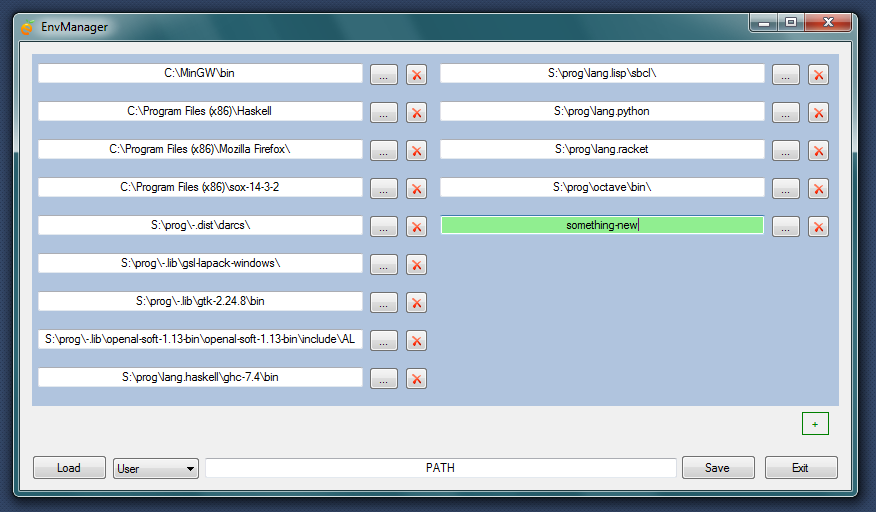
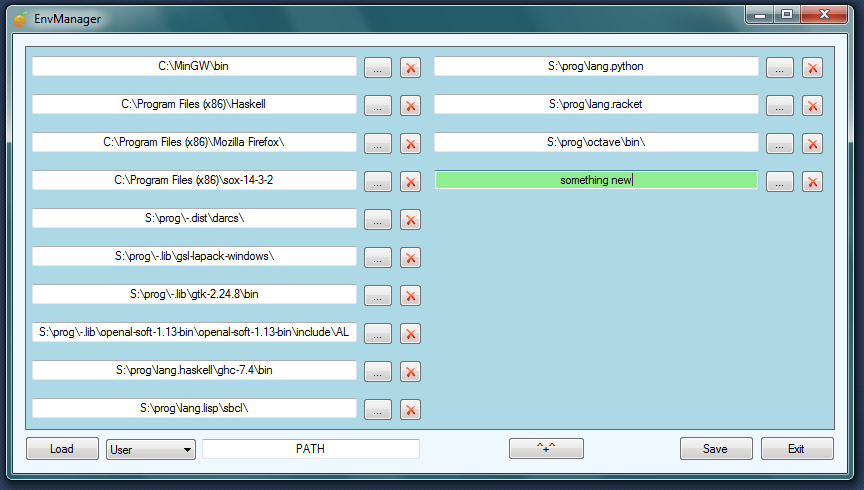
Learning git...

diff --git a/EnvManager/UI/MainForm.Designer.cs b/EnvManager/UI/MainForm.Designer.cs
@@ -43,7 +43,7 @@
             // saveB
             // 
             this.saveB.Anchor = ((System.Windows.Forms.AnchorStyles)((System.Windows.Forms.AnchorStyles.Bottom | System.Windows.Forms.AnchorStyles.Right)));
-            this.saveB.Location = new System.Drawing.Point(566, 413);
+            this.saveB.Location = new System.Drawing.Point(568, 402);
             this.saveB.Name = "saveB";
             this.saveB.Size = new System.Drawing.Size(75, 25);
             this.saveB.TabIndex = 0;
@@ -54,7 +54,7 @@
             // exitB
             // 
             this.exitB.Anchor = ((System.Windows.Forms.AnchorStyles)((System.Windows.Forms.AnchorStyles.Bottom | System.Windows.Forms.AnchorStyles.Right)));
-            this.exitB.Location = new System.Drawing.Point(649, 413);
+            this.exitB.Location = new System.Drawing.Point(649, 402);
             this.exitB.Name = "exitB";
             this.exitB.Size = new System.Drawing.Size(75, 25);
             this.exitB.TabIndex = 1;
@@ -67,17 +67,18 @@
             this.entriesFLP.Anchor = ((System.Windows.Forms.AnchorStyles)((((System.Windows.Forms.AnchorStyles.Top | System.Windows.Forms.AnchorStyles.Bottom) 
             | System.Windows.Forms.AnchorStyles.Left) 
             | System.Windows.Forms.AnchorStyles.Right)));
-            this.entriesFLP.BackColor = System.Drawing.Color.LightSteelBlue;
+            this.entriesFLP.BackColor = System.Drawing.Color.LightBlue;
+            this.entriesFLP.BorderStyle = System.Windows.Forms.BorderStyle.FixedSingle;
             this.entriesFLP.FlowDirection = System.Windows.Forms.FlowDirection.TopDown;
             this.entriesFLP.Location = new System.Drawing.Point(12, 12);
             this.entriesFLP.Name = "entriesFLP";
-            this.entriesFLP.Size = new System.Drawing.Size(712, 352);
+            this.entriesFLP.Size = new System.Drawing.Size(712, 384);
             this.entriesFLP.TabIndex = 2;
             // 
             // loadB
             // 
             this.loadB.Anchor = ((System.Windows.Forms.AnchorStyles)((System.Windows.Forms.AnchorStyles.Bottom | System.Windows.Forms.AnchorStyles.Left)));
-            this.loadB.Location = new System.Drawing.Point(12, 413);
+            this.loadB.Location = new System.Drawing.Point(12, 402);
             this.loadB.Name = "loadB";
             this.loadB.Size = new System.Drawing.Size(75, 25);
             this.loadB.TabIndex = 3;
@@ -89,9 +90,9 @@
             // 
             this.varNameTB.Anchor = ((System.Windows.Forms.AnchorStyles)(((System.Windows.Forms.AnchorStyles.Bottom | System.Windows.Forms.AnchorStyles.Left) 
             | System.Windows.Forms.AnchorStyles.Right)));
-            this.varNameTB.Location = new System.Drawing.Point(185, 416);
+            this.varNameTB.Location = new System.Drawing.Point(189, 405);
             this.varNameTB.Name = "varNameTB";
-            this.varNameTB.Size = new System.Drawing.Size(377, 20);
+            this.varNameTB.Size = new System.Drawing.Size(120, 20);
             this.varNameTB.TabIndex = 4;
             this.varNameTB.Text = "PATH";
             this.varNameTB.TextAlign = System.Windows.Forms.HorizontalAlignment.Center;
@@ -99,13 +100,11 @@
             // addB
             // 
             this.addB.Anchor = ((System.Windows.Forms.AnchorStyles)((System.Windows.Forms.AnchorStyles.Bottom | System.Windows.Forms.AnchorStyles.Right)));
-            this.addB.FlatStyle = System.Windows.Forms.FlatStyle.Flat;
-            this.addB.ForeColor = System.Drawing.Color.Green;
-            this.addB.Location = new System.Drawing.Point(687, 370);
+            this.addB.Location = new System.Drawing.Point(397, 403);
             this.addB.Name = "addB";
-            this.addB.Size = new System.Drawing.Size(27, 23);
+            this.addB.Size = new System.Drawing.Size(77, 23);
             this.addB.TabIndex = 5;
-            this.addB.Text = "+";
+            this.addB.Text = "^+^";
             this.addB.UseVisualStyleBackColor = true;
             this.addB.Click += new System.EventHandler(this.addB_Click);
             // 
@@ -124,16 +123,17 @@
             this.varTargetCB.Items.AddRange(new object[] {
             "Machine",
             "User"});
-            this.varTargetCB.Location = new System.Drawing.Point(93, 416);
+            this.varTargetCB.Location = new System.Drawing.Point(93, 405);
             this.varTargetCB.Name = "varTargetCB";
-            this.varTargetCB.Size = new System.Drawing.Size(86, 21);
+            this.varTargetCB.Size = new System.Drawing.Size(90, 21);
             this.varTargetCB.TabIndex = 6;
             // 
             // MainForm
             // 
             this.AutoScaleDimensions = new System.Drawing.SizeF(6F, 13F);
             this.AutoScaleMode = System.Windows.Forms.AutoScaleMode.Font;
-            this.ClientSize = new System.Drawing.Size(736, 448);
+            this.BackColor = System.Drawing.Color.AliceBlue;
+            this.ClientSize = new System.Drawing.Size(736, 439);
             this.Controls.Add(this.varTargetCB);
             this.Controls.Add(this.addB);
             this.Controls.Add(this.varNameTB);
